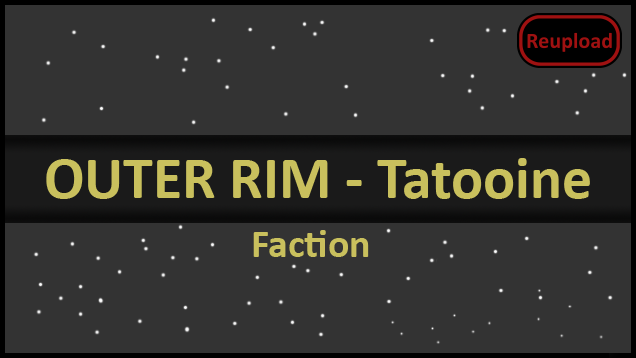
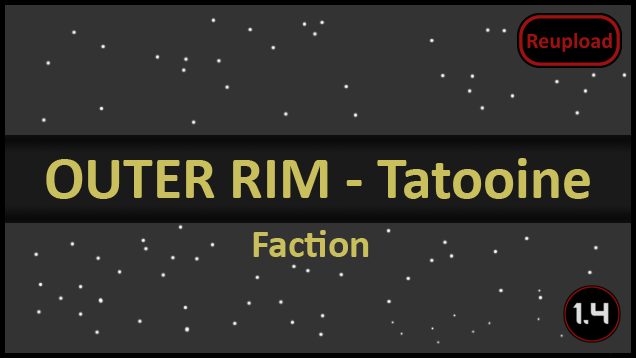
Last update, added end-of-life message

Changed region(s): [[0.8664, 0.7989, 0.9858, 0.9525]]

diff --git a/README.md b/README.md
@@ -5,7 +5,7 @@
 Update of FantasyFans mod
 https://steamcommunity.com/sharedfiles/filedetails/?id=1951919141
 
-![Image](https://i.imgur.com/pufA0kM.png)
+![Image](https://i.imgur.com/KFjAmff.png)
 
 	
 ![Image](https://i.imgur.com/Z4GOv8H.png)
@@ -43,11 +43,13 @@ If you find things unbalanced, please make suggestions for improvement.
 
 -  See if the the error persists if you just have this mod and its requirements active.
 -  If not, try adding your other mods until it happens again.
--  Post your error-log using https://steamcommunity.com/workshop/filedetails/?id=818773962]HugsLib and command Ctrl+F12
+-  Post your error-log using https://steamcommunity.com/workshop/filedetails/?id=818773962]HugsLib or the standalone https://steamcommunity.com/sharedfiles/filedetails/?id=2873415404]Uploader and command Ctrl+F12
 -  For best support, please use the Discord-channel for error-reporting.
 -  Do not report errors by making a discussion-thread, I get no notification of that.
 -  If you have the solution for a problem, please post it to the GitHub repository.
+-  Use https://github.com/RimSort/RimSort/releases/latest]RimSort to sort your mods
 
 
 
+https://steamcommunity.com/sharedfiles/filedetails/changelog/2390807101]![Image](https://img.shields.io/github/v/release/emipa606/OuterRimFactionTatooine?label=latest%20version&style=plastic&color=9f1111&labelColor=black)
 
